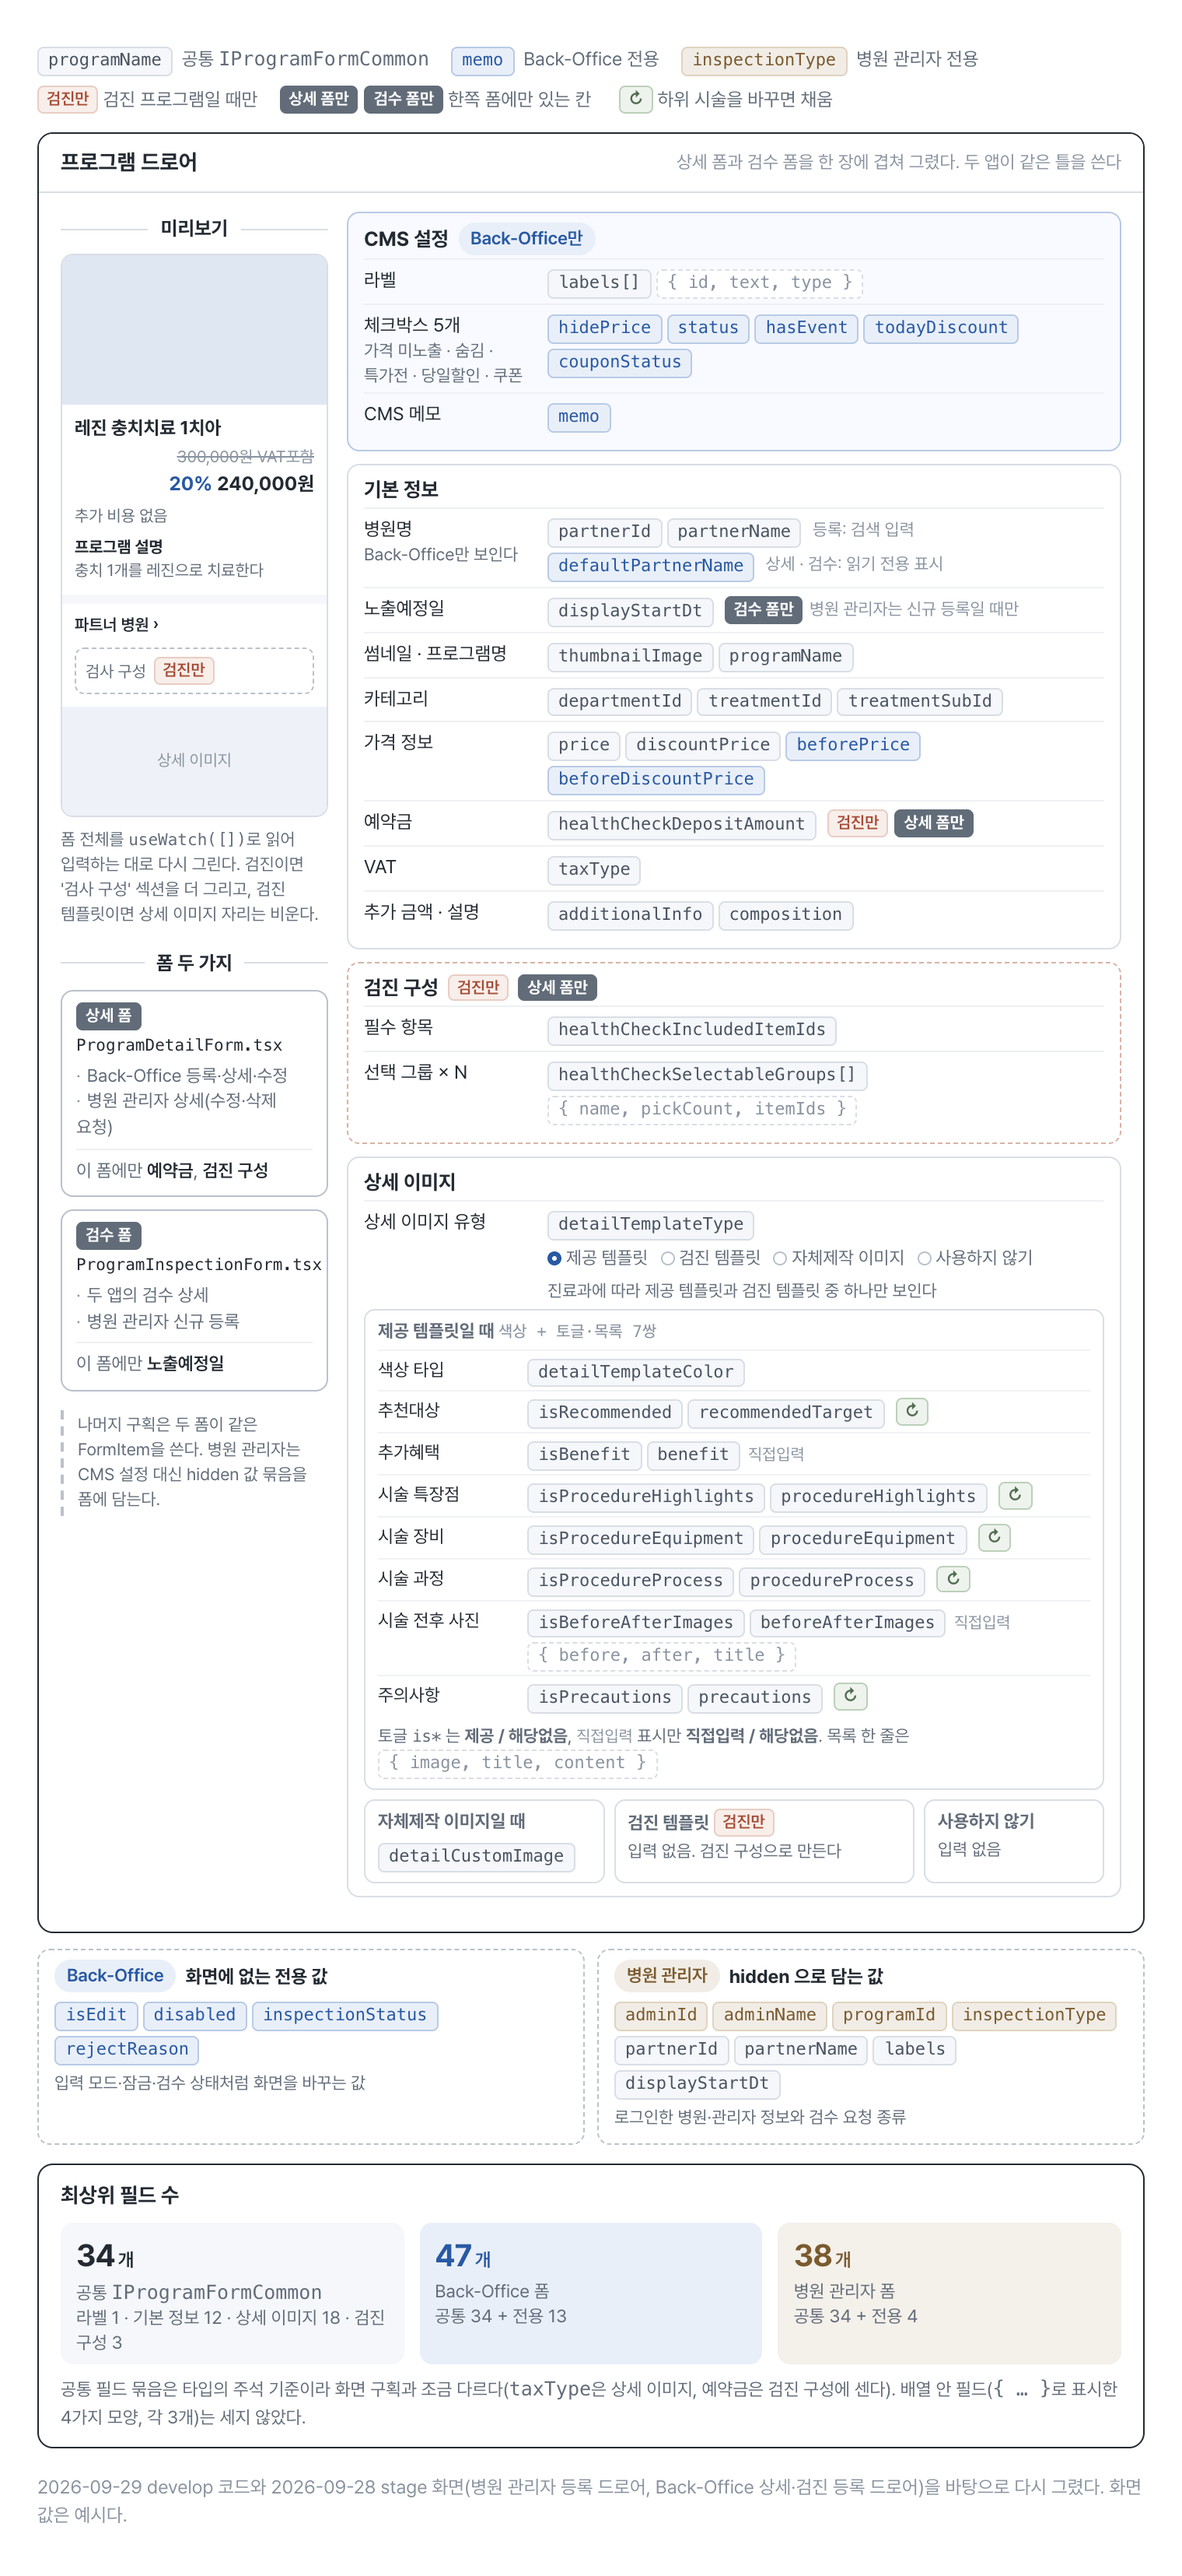
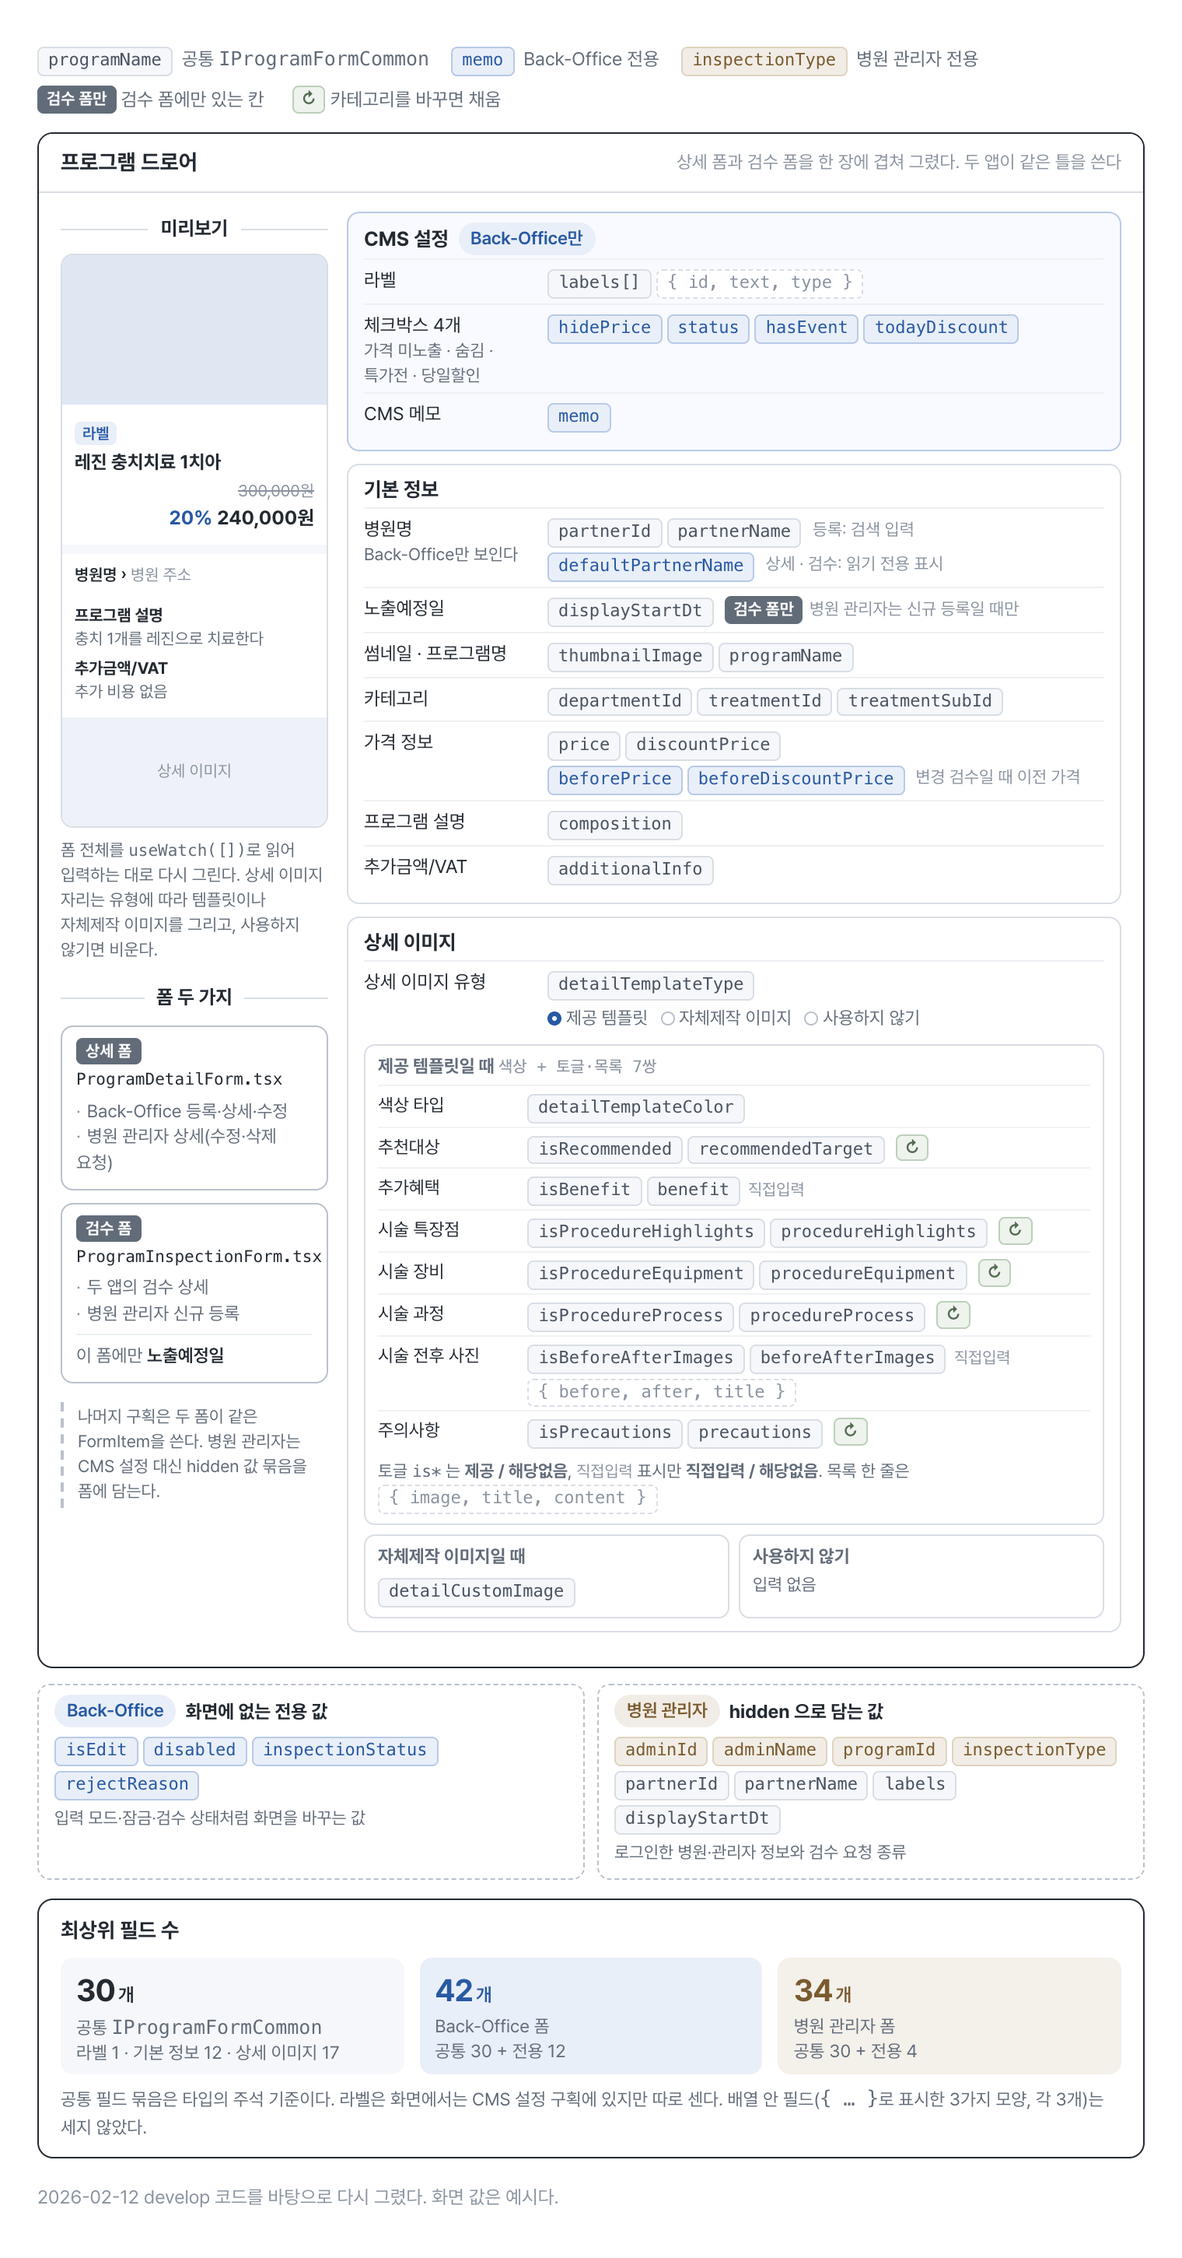
docs(blog): 프로그램 폼 해부도를 2026-02-12 develop 필드(34/42/공통 30)로 맞춘다

diff --git a/blog/assets/figures/program-form/src/01-form-anatomy.html b/blog/assets/figures/program-form/src/01-form-anatomy.html
@@ -29,6 +29,7 @@
   .pv { border: 1px solid var(--line); border-radius: 8px; overflow: hidden; background: #fff; }
   .pv-img { height: 96px; background: #dfe7f3; }
   .pv-b { padding: 7px 8px 8px; }
+  .pv-label { display: inline-block; font-size: 10px; font-weight: 600; color: var(--blue); background: var(--blue-soft); border-radius: 4px; padding: 0 5px; margin-bottom: 3px; }
   .pv-name { font-size: 12px; font-weight: 700; line-height: 1.35; }
   .pv-old { font-size: 10.5px; color: var(--faint); text-decoration: line-through; text-align: right; margin-top: 3px; }
   .pv-new { font-size: 12.5px; font-weight: 700; text-align: right; }
@@ -66,7 +67,7 @@
   .radio-line i { display: inline-block; width: 9px; height: 9px; border-radius: 50%; border: 1.5px solid var(--line-strong); margin: 0 3px -1px 8px; }
   .radio-line i:first-child { margin-left: 0; }
   .radio-line i.on { border: 3px solid var(--blue); }
-  .branch-side { display: grid; grid-template-columns: 1fr 1.25fr 0.75fr; gap: 6px; margin-top: 6px; }
+  .branch-side { display: grid; grid-template-columns: 1fr 1fr; gap: 6px; margin-top: 6px; }
   .bx { border: 1px solid var(--line); border-radius: 7px; padding: 5px 8px 6px; }
   .bx-h { font-size: 11.5px; font-weight: 700; color: var(--sub); margin-bottom: 2px; }
   .bx-h code { font-size: 10.5px; font-weight: 500; color: var(--faint); }
@@ -102,9 +103,8 @@
   <span><span class="f">programName</span> 공통 <code>IProgramFormCommon</code></span>
   <span><span class="f bo">memo</span> Back-Office 전용</span>
   <span><span class="f pa">inspectionType</span> 병원 관리자 전용</span>
-  <span><span class="cond" style="margin-left:0">검진만</span> 검진 프로그램일 때만</span>
-  <span><span class="fm" style="margin-left:0">상세 폼만</span><span class="fm">검수 폼만</span> 한쪽 폼에만 있는 칸</span>
-  <span><span class="sync">↻</span> 하위 시술을 바꾸면 채움</span>
+  <span><span class="fm" style="margin-left:0">검수 폼만</span> 검수 폼에만 있는 칸</span>
+  <span><span class="sync">↻</span> 카테고리를 바꾸면 채움</span>
 </div>
 
 <div class="drawer">
@@ -117,17 +117,19 @@
       <div class="pv">
         <div class="pv-img"></div>
         <div class="pv-b">
+          <span class="pv-label">라벨</span>
           <div class="pv-name">레진 충치치료 1치아</div>
-          <div class="pv-old">300,000원 VAT포함</div>
+          <div class="pv-old">300,000원</div>
           <div class="pv-new"><em>20%</em>240,000원</div>
-          <div class="pv-small">추가 비용 없음</div>
-          <div class="pv-small"><b style="color:var(--ink)">프로그램 설명</b><br>충치 1개를 레진으로 치료한다</div>
         </div>
-        <div class="pv-row">파트너 병원 ›</div>
-        <div class="pv-comp">검사 구성 <span class="cond" style="margin-left:2px">검진만</span></div>
+        <div class="pv-row">병원명 › <span style="font-weight:400;color:var(--faint)">병원 주소</span></div>
+        <div class="pv-b" style="padding-top:0">
+          <div class="pv-small"><b style="color:var(--ink)">프로그램 설명</b><br>충치 1개를 레진으로 치료한다</div>
+          <div class="pv-small"><b style="color:var(--ink)">추가금액/VAT</b><br>추가 비용 없음</div>
+        </div>
         <div class="pv-detail">상세 이미지</div>
       </div>
-      <p class="pv-note">폼 전체를 <code>useWatch([])</code>로 읽어 입력하는 대로 다시 그린다. 검진이면 '검사 구성' 섹션을 더 그리고, 검진 템플릿이면 상세 이미지 자리는 비운다.</p>
+      <p class="pv-note">폼 전체를 <code>useWatch([])</code>로 읽어 입력하는 대로 다시 그린다. 상세 이미지 자리는 유형에 따라 템플릿이나 자체제작 이미지를 그리고, 사용하지 않기면 비운다.</p>
 
       <div class="forms">
         <div class="divider">폼 두 가지</div>
@@ -135,7 +137,6 @@
           <div class="fh"><span class="fm">상세 폼</span></div>
           <code>ProgramDetailForm.tsx</code>
           <ul><li>Back-Office 등록·상세·수정</li><li>병원 관리자 상세(수정·삭제 요청)</li></ul>
-          <div class="has">이 폼에만 <b>예약금</b>, <b>검진 구성</b></div>
         </div>
         <div class="fbox">
           <div class="fh"><span class="fm">검수 폼</span></div>
@@ -152,7 +153,7 @@
       <div class="sec bo">
         <div class="sec-h"><span>CMS 설정</span><span class="app bo">Back-Office만</span></div>
         <div class="row"><span class="lb">라벨</span><div><span class="f">labels[]</span><span class="f sub">{ id, text, type }</span></div></div>
-        <div class="row"><span class="lb">체크박스 5개<small>가격 미노출 · 숨김 · 특가전 · 당일할인 · 쿠폰</small></span><div><span class="f bo">hidePrice</span><span class="f bo">status</span><span class="f bo">hasEvent</span><span class="f bo">todayDiscount</span><span class="f bo">couponStatus</span></div></div>
+        <div class="row"><span class="lb">체크박스 4개<small>가격 미노출 · 숨김 · 특가전 · 당일할인</small></span><div><span class="f bo">hidePrice</span><span class="f bo">status</span><span class="f bo">hasEvent</span><span class="f bo">todayDiscount</span></div></div>
         <div class="row"><span class="lb">CMS 메모</span><div><span class="f bo">memo</span></div></div>
       </div>
 
@@ -162,22 +163,15 @@
         <div class="row"><span class="lb">노출예정일</span><div><span class="f">displayStartDt</span><span class="fm">검수 폼만</span><span class="aside">병원 관리자는 신규 등록일 때만</span></div></div>
         <div class="row"><span class="lb">썸네일 · 프로그램명</span><div><span class="f">thumbnailImage</span><span class="f">programName</span></div></div>
         <div class="row"><span class="lb">카테고리</span><div><span class="f">departmentId</span><span class="f">treatmentId</span><span class="f">treatmentSubId</span></div></div>
-        <div class="row"><span class="lb">가격 정보</span><div><span class="f">price</span><span class="f">discountPrice</span><span class="f bo">beforePrice</span><span class="f bo">beforeDiscountPrice</span></div></div>
-        <div class="row"><span class="lb">예약금</span><div><span class="f">healthCheckDepositAmount</span><span class="cond">검진만</span><span class="fm">상세 폼만</span></div></div>
-        <div class="row"><span class="lb">VAT</span><div><span class="f">taxType</span></div></div>
-        <div class="row"><span class="lb">추가 금액 · 설명</span><div><span class="f">additionalInfo</span><span class="f">composition</span></div></div>
-      </div>
-
-      <div class="sec hc">
-        <div class="sec-h"><span>검진 구성</span><span class="cond" style="margin-left:0">검진만</span><span class="fm" style="margin-left:0">상세 폼만</span></div>
-        <div class="row"><span class="lb">필수 항목</span><div><span class="f">healthCheckIncludedItemIds</span></div></div>
-        <div class="row"><span class="lb">선택 그룹 × N</span><div><span class="f">healthCheckSelectableGroups[]</span><span class="f sub">{ name, pickCount, itemIds }</span></div></div>
+        <div class="row"><span class="lb">가격 정보</span><div><span class="f">price</span><span class="f">discountPrice</span><br><span class="f bo">beforePrice</span><span class="f bo">beforeDiscountPrice</span><span class="aside">변경 검수일 때 이전 가격</span></div></div>
+        <div class="row"><span class="lb">프로그램 설명</span><div><span class="f">composition</span></div></div>
+        <div class="row"><span class="lb">추가금액/VAT</span><div><span class="f">additionalInfo</span></div></div>
       </div>
 
       <div class="sec">
         <div class="sec-h"><span>상세 이미지</span></div>
         <div class="row"><span class="lb">상세 이미지 유형</span><div><span class="f">detailTemplateType</span>
-          <div class="radio-line"><i class="on"></i>제공 템플릿<i></i>검진 템플릿<i></i>자체제작 이미지<i></i>사용하지 않기</div><p class="side-note" style="margin-top:4px">진료과에 따라 제공 템플릿과 검진 템플릿 중 하나만 보인다</p></div></div>
+          <div class="radio-line"><i class="on"></i>제공 템플릿<i></i>자체제작 이미지<i></i>사용하지 않기</div></div></div>
         <div class="bx">
             <div class="bx-h">제공 템플릿일 때 <code>색상 + 토글·목록 7쌍</code></div>
             <div class="pair"><span class="lb">색상 타입</span><div><span class="f">detailTemplateColor</span></div></div>
@@ -194,10 +188,6 @@
             <div class="bx">
               <div class="bx-h">자체제작 이미지일 때</div>
               <span class="f">detailCustomImage</span>
-            </div>
-            <div class="bx">
-              <div class="bx-h">검진 템플릿 <span class="cond" style="margin-left:0">검진만</span></div>
-              <p class="side-note" style="margin-top:0">입력 없음. 검진 구성으로 만든다</p>
             </div>
             <div class="bx">
               <div class="bx-h">사용하지 않기</div>
@@ -227,12 +217,12 @@
 <div class="tally">
   <div class="tally-h">최상위 필드 수</div>
   <div class="tally-grid">
-    <div class="t"><b>34<small>개</small></b><span>공통 <code>IProgramFormCommon</code><br>라벨 1 · 기본 정보 12 · 상세 이미지 18 · 검진 구성 3</span></div>
-    <div class="t bo"><b>47<small>개</small></b><span>Back-Office 폼<br>공통 34 + 전용 13</span></div>
-    <div class="t pa"><b>38<small>개</small></b><span>병원 관리자 폼<br>공통 34 + 전용 4</span></div>
+    <div class="t"><b>30<small>개</small></b><span>공통 <code>IProgramFormCommon</code><br>라벨 1 · 기본 정보 12 · 상세 이미지 17</span></div>
+    <div class="t bo"><b>42<small>개</small></b><span>Back-Office 폼<br>공통 30 + 전용 12</span></div>
+    <div class="t pa"><b>34<small>개</small></b><span>병원 관리자 폼<br>공통 30 + 전용 4</span></div>
   </div>
-  <p>공통 필드 묶음은 타입의 주석 기준이라 화면 구획과 조금 다르다(<code>taxType</code>은 상세 이미지, 예약금은 검진 구성에 센다). 배열 안 필드(<code>{ … }</code>로 표시한 4가지 모양, 각 3개)는 세지 않았다.</p>
+  <p>공통 필드 묶음은 타입의 주석 기준이다. 라벨은 화면에서는 CMS 설정 구획에 있지만 따로 센다. 배열 안 필드(<code>{ … }</code>로 표시한 3가지 모양, 각 3개)는 세지 않았다.</p>
 </div>
 
-<p class="foot">2026-09-29 develop 코드와 2026-09-28 stage 화면(병원 관리자 등록 드로어, Back-Office 상세·검진 등록 드로어)을 바탕으로 다시 그렸다. 화면 값은 예시다.</p>
+<p class="foot">2026-02-12 develop 코드를 바탕으로 다시 그렸다. 화면 값은 예시다.</p>
 </body></html>
